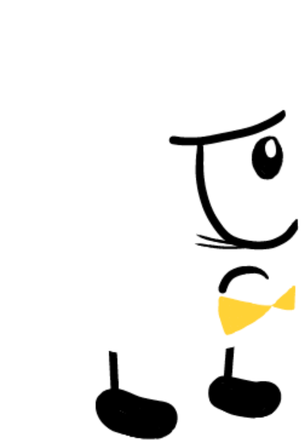
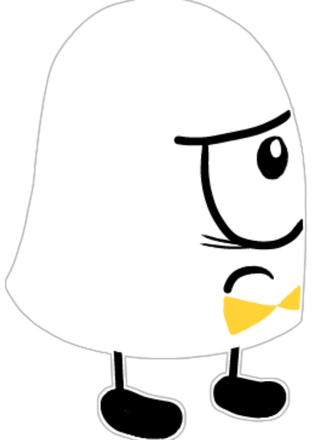
追加修正: パッチくんに白フチ・タグラインをタイトル上へ・色の再配分(試す=ピンク/CREATORS=イエロー)・文言スリム化

diff --git a/index.html b/index.html
@@ -85,8 +85,8 @@
   }
   header h1 .accent { color: var(--pink); }
   header .tagline {
-    margin-top: 12px;
-    font-size: clamp(1rem, 2.5vw, 1.2rem);
+    margin: 6px 0 4px;
+    font-size: clamp(.92rem, 2.2vw, 1.05rem);
     color: var(--text-sub);
   }
   header .sub {
@@ -315,13 +315,13 @@
   }
   .about-link:hover { text-decoration: underline; }
 
-  /* パッチクリエイターズプログラム(最重要導線) */
+  /* パッチクリエイターズプログラム(最重要導線・イエローベースでページ内唯一の光る枠) */
   .creators-box {
     display: flex;
     align-items: center;
     gap: 26px;
-    background: linear-gradient(120deg, rgba(214,51,108,.22), rgba(255,196,0,.16));
-    border: 2px solid var(--pink);
+    background: linear-gradient(120deg, rgba(255,196,0,.2), rgba(255,196,0,.07));
+    border: 2px solid var(--yellow);
     border-radius: 20px;
     padding: 30px 28px;
     text-decoration: none;
@@ -330,12 +330,12 @@
   }
   .creators-box:hover { transform: translateY(-3px); }
   @keyframes creatorsGlow {
-    0%, 100% { box-shadow: 0 0 16px rgba(214,51,108,.28); }
-    50% { box-shadow: 0 0 42px rgba(255,196,0,.4); }
+    0%, 100% { box-shadow: 0 0 14px rgba(255,196,0,.3); }
+    50% { box-shadow: 0 0 36px rgba(255,196,0,.5); }
   }
   .creators-box img { width: 92px; height: auto; flex-shrink: 0; }
   .creators-kicker {
-    color: var(--yellow);
+    color: var(--pink);
     font-weight: 900;
     letter-spacing: .14em;
     font-size: .8rem;
@@ -354,12 +354,12 @@
   .creators-body p b { color: var(--yellow); }
   .creators-cta {
     display: inline-block;
-    background: var(--pink);
-    color: #fff;
-    font-weight: 700;
+    background: var(--yellow);
+    color: #1a1a24;
+    font-weight: 900;
     padding: 11px 30px;
     border-radius: 999px;
-    box-shadow: 0 6px 24px rgba(214,51,108,.45);
+    box-shadow: 0 6px 24px rgba(255,196,0,.4);
   }
   @media (max-width: 560px) {
     .creators-box { flex-direction: column; text-align: center; }
@@ -389,10 +389,10 @@
   }
   .chips i.hot { color: var(--yellow); border-color: var(--yellow); }
 
-  /* インストール不要で今すぐ試すストリップ */
+  /* インストール不要で今すぐ試すストリップ(ピンクベース) */
   .try-box {
-    background: linear-gradient(135deg, rgba(255,196,0,.10), rgba(214,51,108,.08));
-    border: 1px solid var(--yellow);
+    background: linear-gradient(135deg, rgba(214,51,108,.16), rgba(214,51,108,.05));
+    border: 1px solid var(--pink);
     border-radius: 16px;
     padding: 26px 24px;
     text-align: center;
@@ -401,8 +401,8 @@
   .try-box p { color: var(--text-sub); font-size: .9rem; margin: 8px auto 16px; max-width: 560px; }
   .try-btn {
     display: inline-block;
-    background: var(--yellow);
-    color: #1a1a24;
+    background: var(--pink);
+    color: #fff;
     text-decoration: none;
     font-weight: 700;
     font-size: .95rem;
@@ -453,13 +453,13 @@
 
 <header>
   <img class="logo" src="assets/patti_chara.png" alt="おばけのパッチ">
-  <h1>PATTI <span class="accent">CREATIVE</span> PRODUCT</h1>
   <p class="tagline">クリエイターが「ちょっと助かる」無料ツール</p>
+  <h1>PATTI <span class="accent">CREATIVE</span> PRODUCT</h1>
   <p class="sub">エンジニア経験０の映像ディレクターが、AIで開発</p>
   <div class="free-badges">
     <span>✅ 全部無料</span>
     <span>✅ 登録不要</span>
-    <span>✅ データはあなたのPCの中だけ</span>
+    <span>✅ データはPCの中だけ</span>
   </div>
   <div id="dl-counter">⬇ 累計ダウンロード数 <b id="dl-count-num"></b></div>
 </header>
@@ -534,12 +534,12 @@
   <!-- インストール不要ですぐ試す -->
   <section id="try-now">
     <div class="try-box">
-      <h3>⚡ インストール不要で、今すぐ試せる</h3>
-      <p>PATTI PIXEL と PATTI MINIATURE は<b style="color:var(--yellow)">ブラウザ版</b>あり。ダウンロードなし・Mac・スマホでも、開いたその場で使えます。</p>
+      <h3>⚡ インストール不要。今すぐ試せる ⚡</h3>
+      <p>PIXEL と MINIATURE は<b style="color:var(--yellow)">ブラウザ版</b>あり。Mac・スマホでも、開いたその場で使えます。</p>
       <a class="try-btn" href="https://ikemotodir.github.io/patti-pixel/app/"
-         onclick="gtag('event','browser_app_click',{tool:'patti-pixel'})">🟧 PIXEL をブラウザで開く</a>
+         onclick="gtag('event','browser_app_click',{tool:'patti-pixel'})">PIXEL をブラウザで開く</a>
       <a class="try-btn" href="https://ikemotodir.github.io/patti-miniature/app/"
-         onclick="gtag('event','browser_app_click',{tool:'patti-miniature'})">🏙 MINIATURE をブラウザで開く</a>
+         onclick="gtag('event','browser_app_click',{tool:'patti-miniature'})">MINIATURE をブラウザで開く</a>
     </div>
   </section>
 
@@ -551,7 +551,7 @@
       <div class="creators-body">
         <span class="creators-kicker">PATTI CREATORS PROGRAM</span>
         <h2>パッチは、みんなで創っていいキャラクター。</h2>
-        <p>おばけのパッチは二次創作OK・販売OK。累計売上200万円まで<b>ロイヤリティ0%</b>。描いても、歌っても、グッズにしても自由。あなたの作品に、パッチを迎えませんか？</p>
+        <p>二次創作OK・販売OK。累計売上200万円まで<b>ロイヤリティ0%</b>。あなたの作品に、パッチを迎えませんか？</p>
         <span class="creators-cta">プログラムを見る →</span>
       </div>
     </a>
